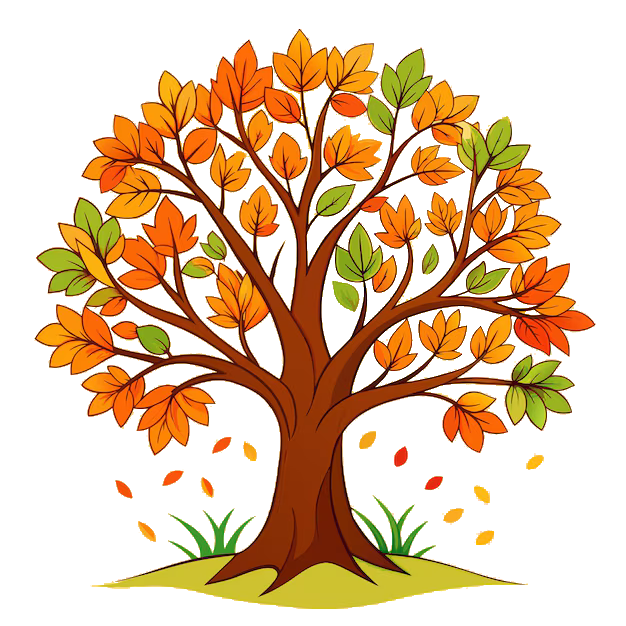
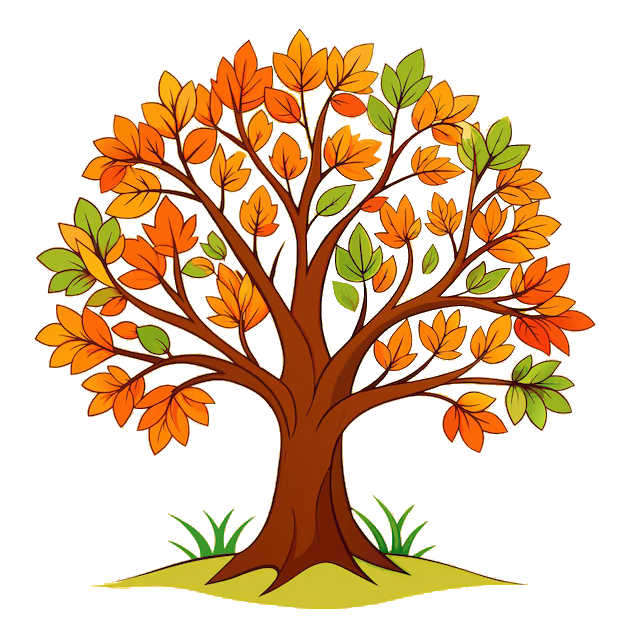
feature/tree-animation (#8)

diff --git a/src/pages/Home/TreeBox/TreeBox.jsx b/src/pages/Home/TreeBox/TreeBox.jsx
@@ -1,4 +1,4 @@
-import { Box } from "@mui/material";
+import { Box, useMediaQuery, useTheme } from "@mui/material";
 import { motion } from "framer-motion";
 
 import tree from "../../../assets/tree.png";
@@ -14,10 +14,39 @@ import image_9 from "../../../assets/listki/9.png";
 import { useEffect, useRef, useState } from "react";
 
 export default function TreeBox() {
-  const dickRef = useRef(null);
-  const [clientHeight, setClientHeight] = useState(0);
+  const theme = useTheme();
+  const isMedium = useMediaQuery(theme.breakpoints.only("md"));
+  const isSmall = useMediaQuery(theme.breakpoints.only("sm"));
+  const isExtraSmall = useMediaQuery(theme.breakpoints.only("xs"));
 
   const leaves = [
+    image_1,
+    image_2,
+    image_3,
+    image_4,
+    image_5,
+    image_6,
+    image_7,
+    image_8,
+    image_9,
+    image_1,
+    image_2,
+    image_3,
+    image_4,
+    image_5,
+    image_6,
+    image_7,
+    image_8,
+    image_9,
+    image_1,
+    image_2,
+    image_3,
+    image_4,
+    image_5,
+    image_6,
+    image_7,
+    image_8,
+    image_9,
     image_1,
     image_2,
     image_3,
@@ -31,11 +60,6 @@ export default function TreeBox() {
 
   const randomBetween = (min, max) => Math.random() * (max - min) + min;
 
-  useEffect(() => {
-    console.log(dickRef.current?.height);
-    setClientHeight(dickRef.current?.height || 0);
-  }, [dickRef.current.height]);
-
   return (
     <Box
       sx={{
@@ -47,41 +71,45 @@ export default function TreeBox() {
       }}
     >
       <Box
-        ref={dickRef}
         component="img"
         src={tree}
         alt="tree"
         sx={{
-          height: { xs: "auto", lg: "100%" },
-          width: { xs: "100%", lg: "auto" },
+          height: { xs: "400px", sm: "600px", md: "800px", lg: "100%" },
+          width: { xs: "auto", lg: "auto" },
+          zIndex: 3,
         }}
       />
-      {clientHeight > 0 && (
-        <Box className="leaves">
-          {leaves.map((leaf, index) => (
-            <motion.img
-              key={index}
-              src={leaf}
-              alt="Leaf"
-              className="leaf"
-              initial={{
-                x: randomBetween(-300, 300),
-                y: 10,
-                rotate: randomBetween(0, 360),
-              }}
-              animate={{
-                x: randomBetween(-300, 300),
-                y: clientHeight,
-                rotate: randomBetween(360, 720),
-              }}
-              transition={{
-                duration: randomBetween(3, 6),
-                repeat: Infinity,
-              }}
-            />
-          ))}
-        </Box>
-      )}
+      <Box className="leaves">
+        {leaves.map((leaf, index) => (
+          <motion.img
+            key={index}
+            src={leaf}
+            alt="Leaf"
+            className="leaf"
+            initial={{
+              x: randomBetween(
+                -(isSmall ? 200 : isExtraSmall ? 150 : 300),
+                isSmall ? 200 : isExtraSmall ? 150 : 300,
+              ),
+              y: isMedium ? 500 : isSmall ? 400 : isExtraSmall ? 250 : 420,
+              rotate: randomBetween(0, 360),
+            }}
+            animate={{
+              x: randomBetween(
+                -(isSmall ? 200 : isExtraSmall ? 150 : 300),
+                isSmall ? 200 : isExtraSmall ? 150 : 300,
+              ),
+              y: isMedium ? 700 : isSmall ? 540 : isExtraSmall ? 350 : 550,
+              rotate: randomBetween(360, 720),
+            }}
+            transition={{
+              duration: randomBetween(3, 6),
+              repeat: Infinity,
+            }}
+          />
+        ))}
+      </Box>
     </Box>
   );
 }

diff --git a/src/index.css b/src/index.css
@@ -24,6 +24,7 @@
   left: 0;
   width: 100%;
   pointer-events: none;
+  z-index: -1;
 }
 
 .leaf {
